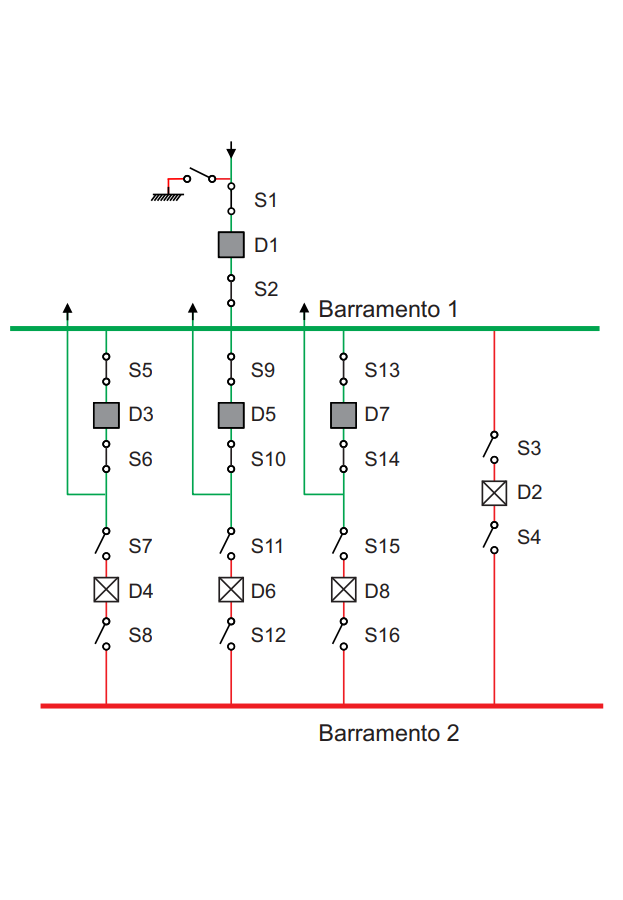
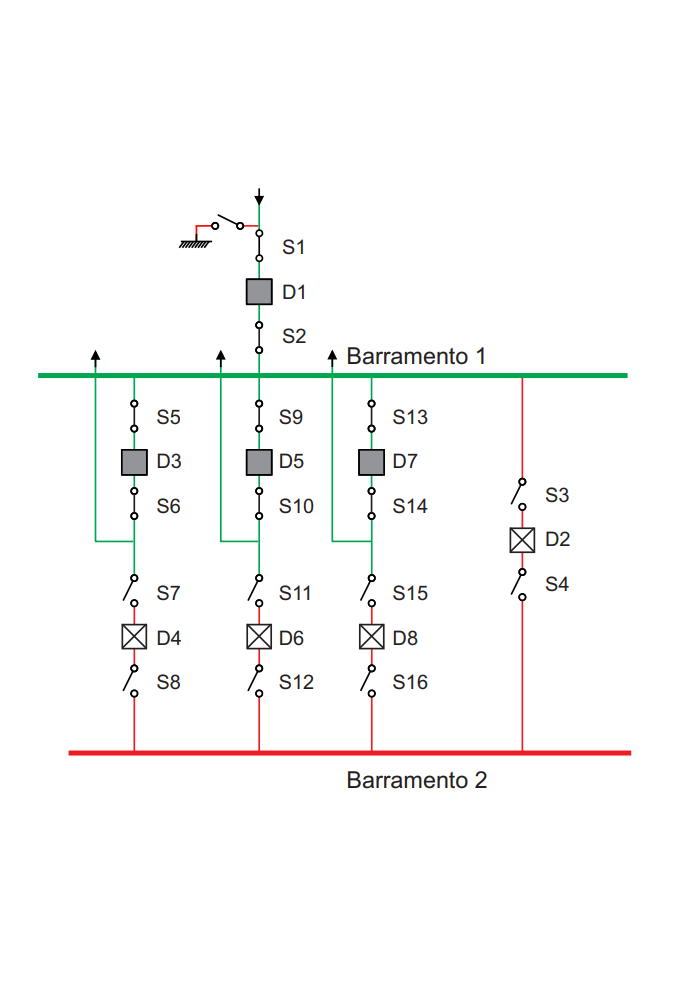
atualização

Changed region(s): [[0.0305, 0.1556, 0.9759, 0.84], [0.8234, 0.5911, 0.8844, 0.6222]]

diff --git a/src/barras/barra6-3.py b/src/barras/barra6-3.py
@@ -7,13 +7,8 @@ app.title("Barramento Duplo com Disjuntor Duplo")
 #app.iconbitmap('img/ufsm-see.ico')
 
 
-def finaliza(elemFalha=None):
-    print('10. Entrou em FINALIZA')
-    elem_sel = combo.get()
-    print('10. Elemento Selecionado: ' + elem_sel)
-    print('10. Elemento com Falha: ' + elemFalha)
-
-    if elemFalha == 'Disjuntor D1':
+def finaliza(elem_sel):
+    if elem_sel == 'Trocar D1':
         # newImage = PhotoImage(file='img/bar6.png')
         # diagrama.configure(image=newImage)
         telaInt.configure(text='--------------------------------------------------------------\n'
@@ -21,7 +16,7 @@ def finaliza(elemFalha=None):
                                '--------------------------------------------------------------')
 
 
-    elif elemFalha == 'Disjuntor D3':
+    elif elem_sel == 'Trocar D3':
         # newImage = PhotoImage(file='img/bar6.png')
         # diagrama.configure(image=newImage)
         telaInt.configure(text='--------------------------------------------------------------\n'
@@ -29,7 +24,7 @@ def finaliza(elemFalha=None):
                                '--------------------------------------------------------------')
 
 
-    elif elemFalha == 'Disjuntor D5':
+    elif elem_sel == 'Trocar D5':
         # newImage = PhotoImage(file='img/bar6.png')
         # diagrama.configure(image=newImage)
         telaInt.configure(text='--------------------------------------------------------------\n'
@@ -37,13 +32,12 @@ def finaliza(elemFalha=None):
                                '--------------------------------------------------------------')
 
 
-    elif elemFalha == 'Disjuntor D7':
+    elif elem_sel == 'Trocar D7':
         # newImage = PhotoImage(file='img/bar6.png')
         # diagrama.configure(image=newImage)
         telaInt.configure(text='--------------------------------------------------------------\n'
                                'Manobra em Disjuntor D7 finalizada!\n'
                                '--------------------------------------------------------------')
-
 
 
 def Disj3Passo6():
@@ -55,27 +49,13 @@ def Disj3Passo6():
         # newImage = PhotoImage(file='img/bar6.png')
         # diagrama.configure(image=newImage)
         telaInt.configure(text='--------------------------------------------------------------\n'
-                               'Seccionadoras S5 e S6 abertas\n'
+                               'Disjuntor D3 trocado\n'
                                'Selecione o próximo passo:\n'
                                '--------------------------------------------------------------')
-        combo.configure(values=['Abrir S1-2',
-                                'Fechar S5-6',
-                                'Abrir S9-10',
-                                'Abrir S13-14',
-                                'Abrir S3-4',
-                                'Abrir S7-8',
-                                'Fechar S11-12',
-                                'Fechar S15-16',
-                                'Desligar D1',
-                                'Ligar D3',
-                                'Desligar D5',
-                                'Desligar D7',
-                                'Desligar D2',
-                                'Desligar D4',
-                                'Ligar D6',
-                                'Ligar D8', ])
+        combo.pack_forget()
         print('9. Dentro do IF \n')
-        botao1.configure(command=lambda: finaliza())
+        print(elem_sel)
+        botao1.configure(text='Finalizar', command=lambda: finaliza(elem_sel))
     else:
         telaInt.configure(text='--------------------------------------------------------------\n'
                                'Seleção inválida!\n'
@@ -350,11 +330,11 @@ def selectFalha():
                             'Ligar D8', ])
     combo.set('')
     botao1.configure(text='Próximo Passo')
-    botao2.configure(text='Finalizar Manobra')
+    botao2.configure(text='Sair')
 
     if elem_sel == 'Disjuntor D1':
-        # newImage = PhotoImage(file='img/bar6.png')
-        # diagrama.configure(image=newImage)
+        newImage = PhotoImage(file='img/bar6D3a.png')
+        diagrama.configure(image=newImage)
 
         def analiseD1():
             pass
@@ -402,7 +382,7 @@ subcontainer3.pack(fill='both', expand='yes', padx=10, pady=10)
 
 # Objeto imagem:
 image = PhotoImage(file='img/bar6.png')
-diagrama = Canvas(container1, bg='white', height=900, width=620)
+diagrama = Canvas(container1, bg='white', height=1000, width=700)
 diagrama.create_image(0, 0, image=image, anchor=NW)
 #diagrama = Label(container1, image=image)
 diagrama.pack(expand=True, fill='both')
